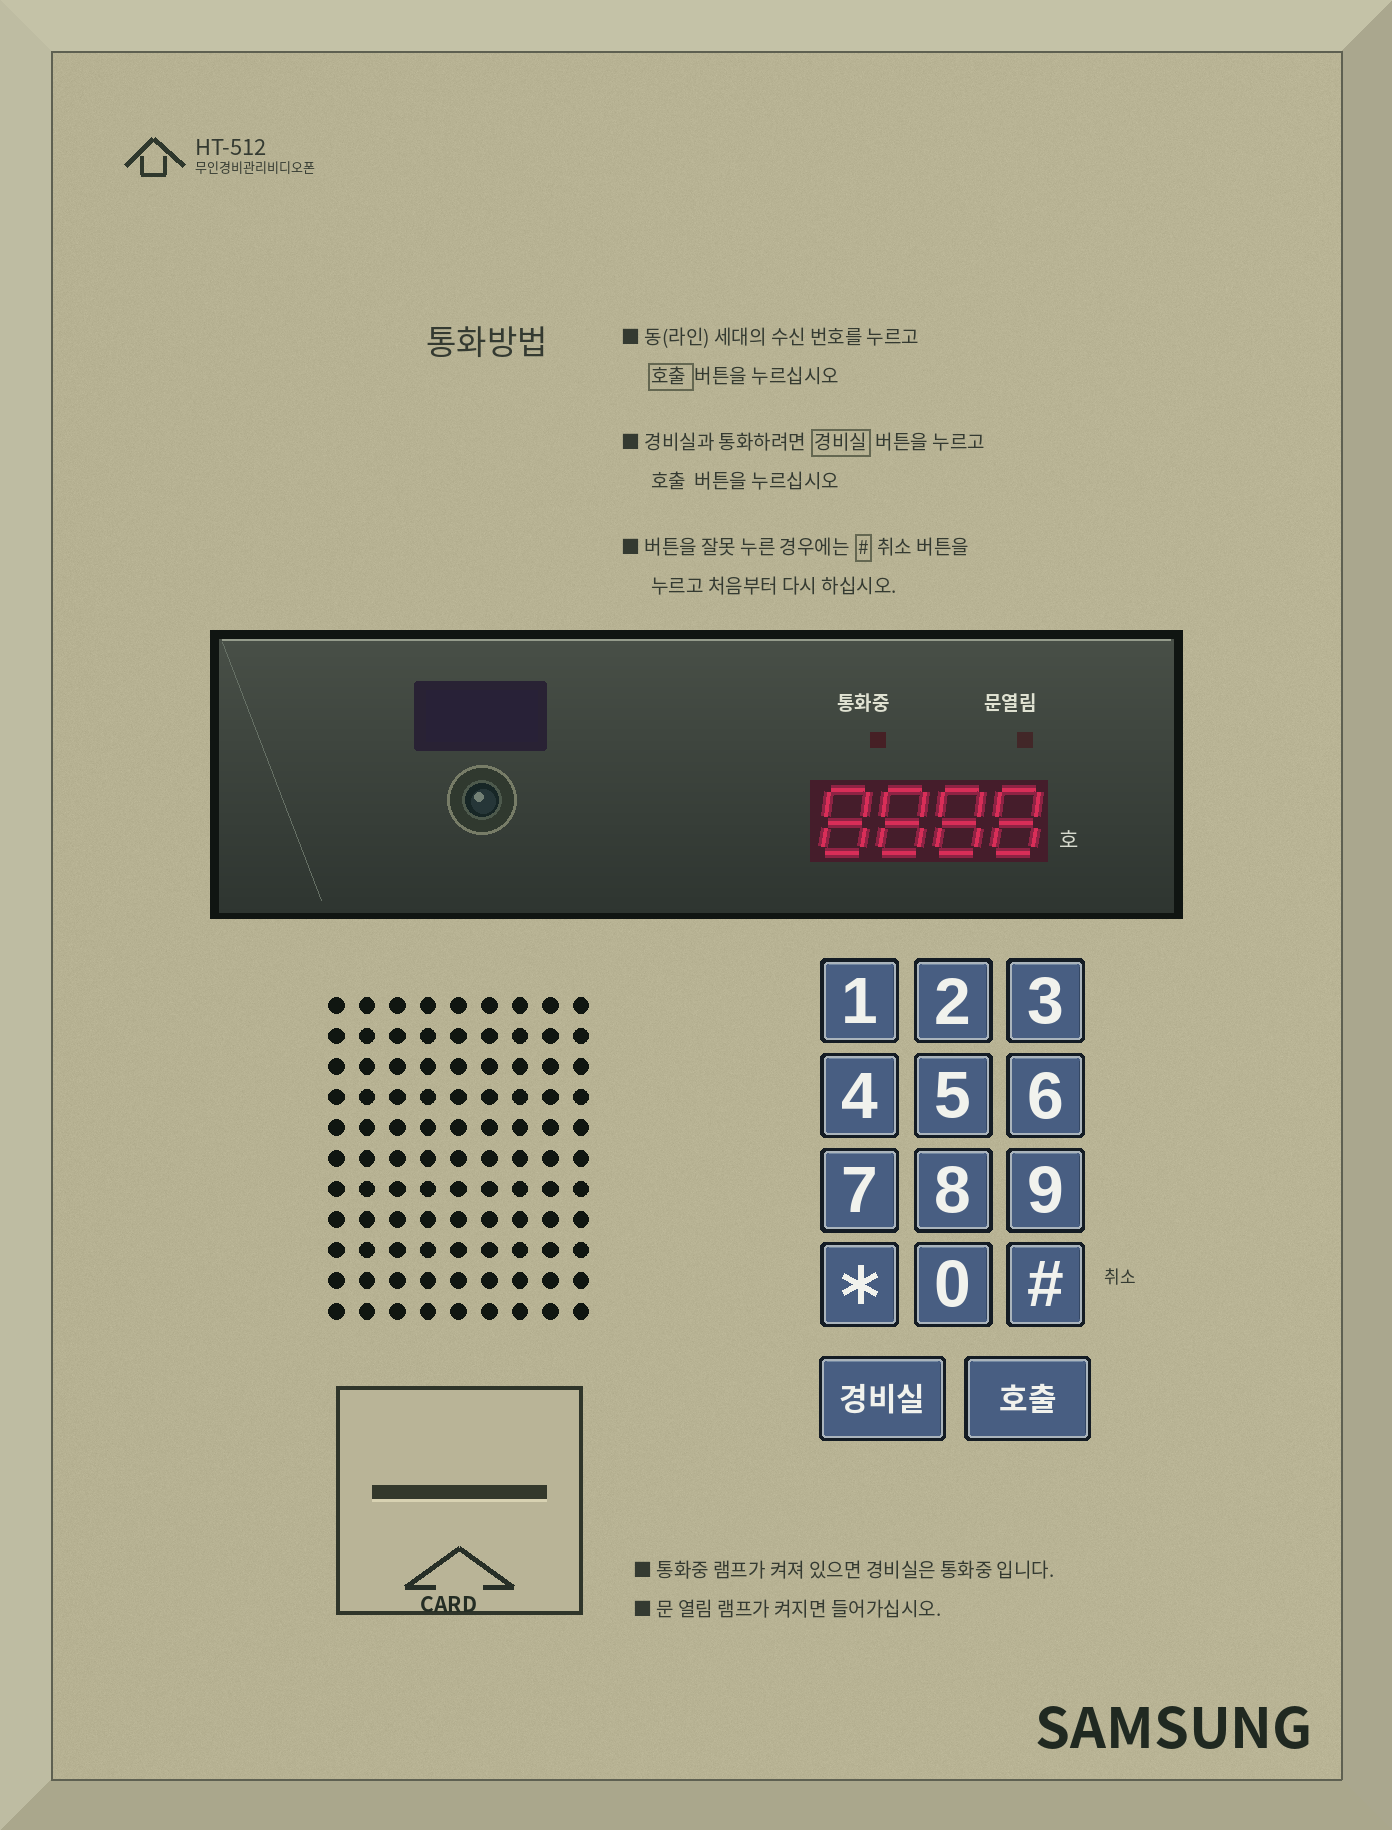
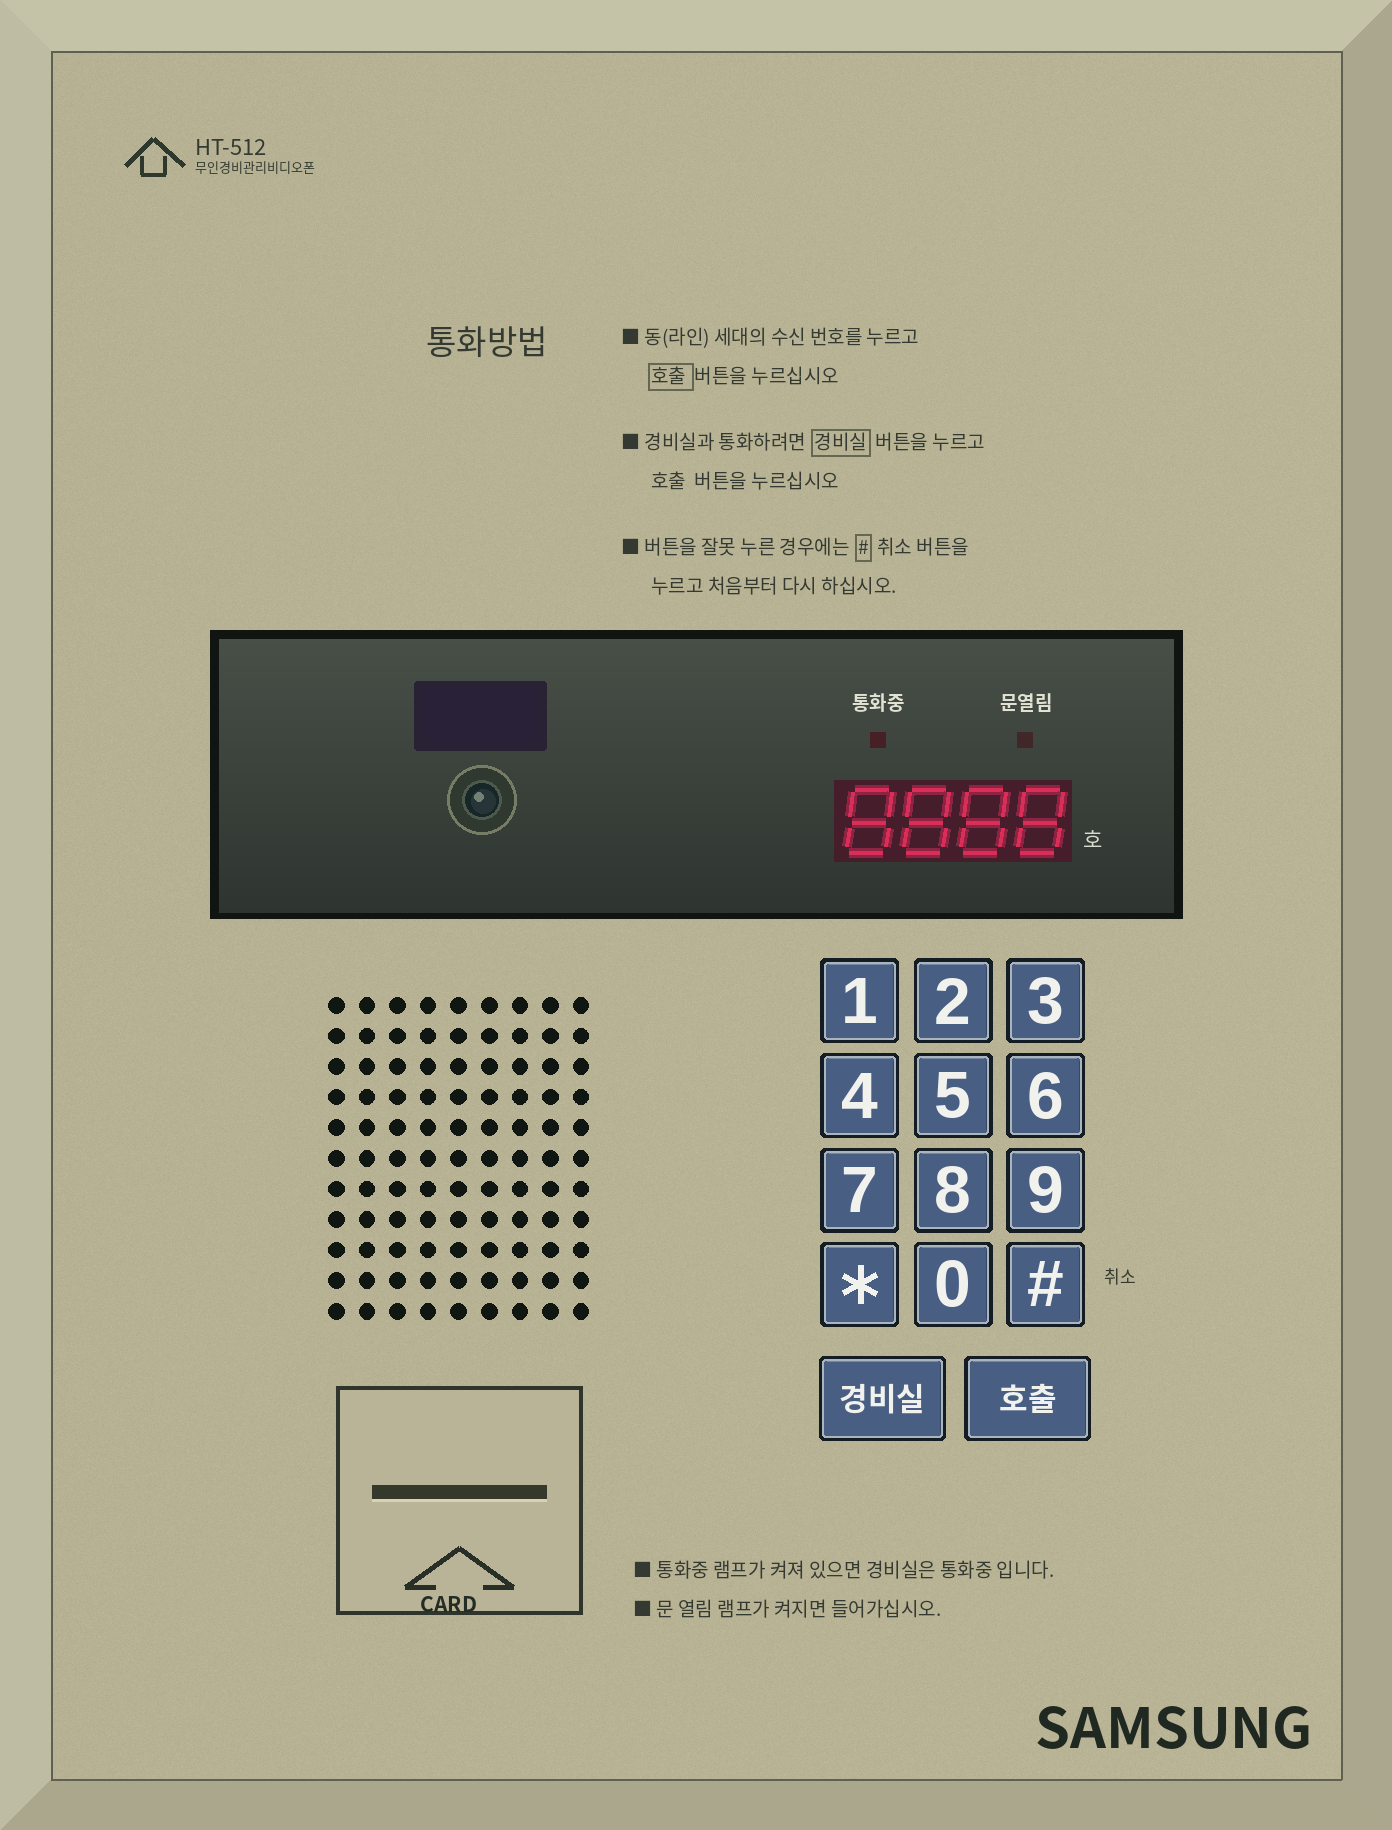
Align HT-512 lamp labels and digits and remove panel scratches

Changed region(s): [[0.556, 0.3738, 0.7723, 0.4672]]

diff --git a/tools/sht/ht512.py b/tools/sht/ht512.py
@@ -31,6 +31,11 @@ text(207,177,'■ 버튼을 잘못 누른 경우에는  #  취소 버튼을',6.2
 text(217,190,'누르고 처음부터 다시 하십시오.',6.4)
 for box in [(216,121,231,130), (207+font(6.2).getlength('■ 경비실과 통화하려면  ')/S-1,143,207+font(6.2).getlength('■ 경비실과 통화하려면  경비실')/S+1,152), (207+font(6.2).getlength('■ 버튼을 잘못 누른 경우에는  ')/S-1,178,207+font(6.2).getlength('■ 버튼을 잘못 누른 경우에는  #')/S+1,187)]:
  d.rectangle(tuple(round(v*S) for v in box),outline='#646751',width=S//2+1)
+keys=[]
+for row,chars in enumerate(['123','456','789','*0#']):
+ for col,ch in enumerate(chars):keys.append(dict(label=ch,x=273.5+31*col,y=319.5+31.5*row,w=26,h=28))
+keys += [dict(label='경비실',x=273,y=452,w=42,h=28),dict(label='호출',x=321.5,y=452,w=42,h=28)]
+
 # Draw the complete panel as one group, centered on the body rather than an approximate photo X.
 panel_bounds=dict(x=(W-324)/2,y=210,w=324,h=96)
 panel_layer=Image.new('RGBA',im.size);base_draw=d;d=ImageDraw.Draw(panel_layer)
@@ -38,19 +43,31 @@ panel_layer=Image.new('RGBA',im.size);base_draw=d;d=ImageDraw.Draw(panel_layer)
 rect((78,210,402,306),'#101512')
 for yy in range(213,304):
  t=(yy-213)/91;rect((81,yy,399,yy+1),tuple(round(a+(b-a)*t) for a,b in zip((72,79,71),(46,53,48)))+(255,))
-line([(82,213),(398,213)],'#959c8c',.6);line([(82,214),(115,300)],'#667065',.35)
+# Clean smoked cover: no diagonal scratch or painted highlight streak.
 rr((146,227,190,250),'#292234',1);rect((150,230,187,247),'#282137')
 d.ellipse((157*S,255*S,180*S,278*S),fill='#30392f',outline='#777c67',width=S)
 d.ellipse((162*S,260*S,175*S,273*S),fill='#172626',outline='#4d594c',width=S)
 d.ellipse((165*S,263*S,173*S,271*S),fill='#263638');d.ellipse((166*S,264*S,169*S,267*S),fill='#738075')
-text(287,229,'통화중',6.3,'#e0e2d2',True);text(336,229,'문열림',6.3,'#e0e2d2',True)
+for cx,label in [(300.5,'통화중'),(349.5,'문열림')]:
+ f=font(6.3,True);glyph=Image.new('RGBA',(128,64));gd=ImageDraw.Draw(glyph)
+ gd.text((4,4),label,font=f,fill='#e0e2d2')
+ # Center the visible ink rather than the font advance, which has unequal side bearings.
+ gy,gx=np.where(np.array(glyph)[:,:,3]>=136)
+ dx=round(cx*S-(gx.min()+gx.max())/2)
+ panel_layer.alpha_composite(glyph,(dx,round(229*S)-4))
 rect((298,244,303,249),'#462025');rect((347,244,352,249),'#422728')
+# Keep the complete four-digit display and its unit label together.
+segment_layer=Image.new('RGBA',im.size);panel_draw=d;d=ImageDraw.Draw(segment_layer)
 rect((278,260,357,287),'#451d2b')
 # Seven segments with a dark housing and individual bevel-like core strokes.
 for xx in [281,300,319,338]:
  for pts in [[(xx+4,263),(xx+15,263)],[(xx+3,274),(xx+14,274)],[(xx+2,284),(xx+13,284)],[(xx+3,264),(xx+2,272)],[(xx+16,264),(xx+15,272)],[(xx+2,276),(xx+1,282)],[(xx+15,276),(xx+14,282)]]:
   line(pts,'#8e2344',3.5);line(pts,'#d82e58',1.4)
 text(361,274,'호',7,'#d8dbcf')
+dial_keys=keys[:12];dial_center=(min(q['x'] for q in dial_keys)+max(q['x']+q['w'] for q in dial_keys))/2
+panel_shift=panel_bounds['x']-78
+segment_shift=dial_center-((278+357)/2+panel_shift)
+panel_layer.alpha_composite(segment_layer,(round(segment_shift*S),0));d=panel_draw
 im.alpha_composite(panel_layer,(round((panel_bounds['x']-78)*S),0));d=base_draw
 # Exactly 9 x 11 round perforations, cut into the 3D front panel too.
 for row in range(11):
@@ -58,10 +75,6 @@ for row in range(11):
   xx=112.1+col*10.2;yy=335.1+row*10.2;d.ellipse(((xx-2.6)*S,(yy-2.6)*S,(xx+2.6)*S,(yy+2.6)*S),fill='#101611')
 # Outer key boundaries measured after projective rectification of photo 1.
 # Coordinates describe the black socket, not an inner cap with extra borders added outside it.
-keys=[]
-for row,chars in enumerate(['123','456','789','*0#']):
- for col,ch in enumerate(chars):keys.append(dict(label=ch,x=273.5+31*col,y=319.5+31.5*row,w=26,h=28))
-keys += [dict(label='경비실',x=273,y=452,w=42,h=28),dict(label='호출',x=321.5,y=452,w=42,h=28)]
 style=dict(socketRadius=1.8,rimInset=1.1,rimRadius=1.1,faceInset=1.8,faceRadius=.8,labelInset=2.2,
            socketColor='#141c24',rimColor='#aab4bc',faceColor='#485e82')
 for q in keys:

diff --git a/tools/sht/package.py b/tools/sht/package.py
@@ -8,8 +8,8 @@ caption_overrides={f'assets/qwertys_homenet/textures/block/kvm931t/{name}.png' f
 with zipfile.ZipFile(base) as b,zipfile.ZipFile(extra) as a,zipfile.ZipFile(target,'w',zipfile.ZIP_DEFLATED,compresslevel=9) as out:
  for path in b.namelist():
   raw=a.read(path) if path in caption_overrides else b.read(path)
-  if path=='META-INF/mods.toml':raw=raw.replace(b'version="1.0.8"',b'version="1.0.32"')+b'\n[[mods]]'+a.read(path).split(b'[[mods]]',1)[1]
-  if path=='META-INF/MANIFEST.MF':raw=raw.replace(b'Implementation-Version: 1.0.8',b'Implementation-Version: 1.0.32')
+  if path=='META-INF/mods.toml':raw=raw.replace(b'version="1.0.8"',b'version="1.0.33"')+b'\n[[mods]]'+a.read(path).split(b'[[mods]]',1)[1]
+  if path=='META-INF/MANIFEST.MF':raw=raw.replace(b'Implementation-Version: 1.0.8',b'Implementation-Version: 1.0.33')
   out.writestr(path,raw)
  out.writestr("META-INF/coremods.json",a.read("META-INF/coremods.json"))
  for path in a.namelist():

diff --git a/docs/HT-512.md b/docs/HT-512.md
@@ -37,3 +37,7 @@
 ## 검은 패널 중심 정렬 — 1.0.32
 
 이전 검은 패널은 x=78부터 402까지여서 중심이 240이었고, 제품 외곽의 중심 232보다 오른쪽으로 8만큼 치우쳤습니다. 좌우 경계를 70과 394로 옮겨 두 여백을 같게 맞췄습니다. 렌즈·보라색 창·램프·숫자 세그먼트·표시 글자와 실제 메시의 개구부를 함께 이동합니다. 패널 내부 이미지가 그대로 8만큼 이동하고 다른 텍스처 픽셀이 유지되는지 확인했습니다.
+
+## 램프 글자·세그먼트 정렬과 패널 정리 — 1.0.33
+
+통화중·문열림 글자의 실제 글리프 폭을 계산해 각 램프의 가로 중심에 맞췄습니다. 4자리 세그먼트는 숫자 다이얼 12개 전체의 가로 중심으로 옮기고, 옆의 호 글자도 같은 거리만큼 이동했습니다. 패널의 사선 자국과 그려진 반사선을 제거했습니다. 실제 생성 픽셀에서 글자·램프 중심과 세그먼트·다이얼 중심의 일치를 확인했으며, 패널 바깥 픽셀은 이전과 동일합니다.

diff --git a/README.md b/README.md
@@ -1,3 +1,7 @@
+## HT-512 표시 정렬·패널 자국 제거 — 1.0.33
+
+통화중·문열림 글자를 각 램프의 가로 중심에 정렬했습니다. 세그먼트는 다이얼 묶음의 중앙으로 옮기고 호 글자도 함께 이동했습니다. 검은 패널의 사선 자국·반사선을 제거했습니다. [HT-512 변경 설명](docs/HT-512.md)
+
 ## HT-512 검은 패널 중앙 정렬 — 1.0.32
 
 검은 패널 중심이 제품 중심보다 오른쪽으로 치우친 좌표를 수정했습니다. 렌즈·램프·세그먼트·표시 글자와 패널 개구부를 함께 왼쪽으로 이동해 좌우 여백을 맞췄습니다. [변경 설명](docs/HT-512.md)
